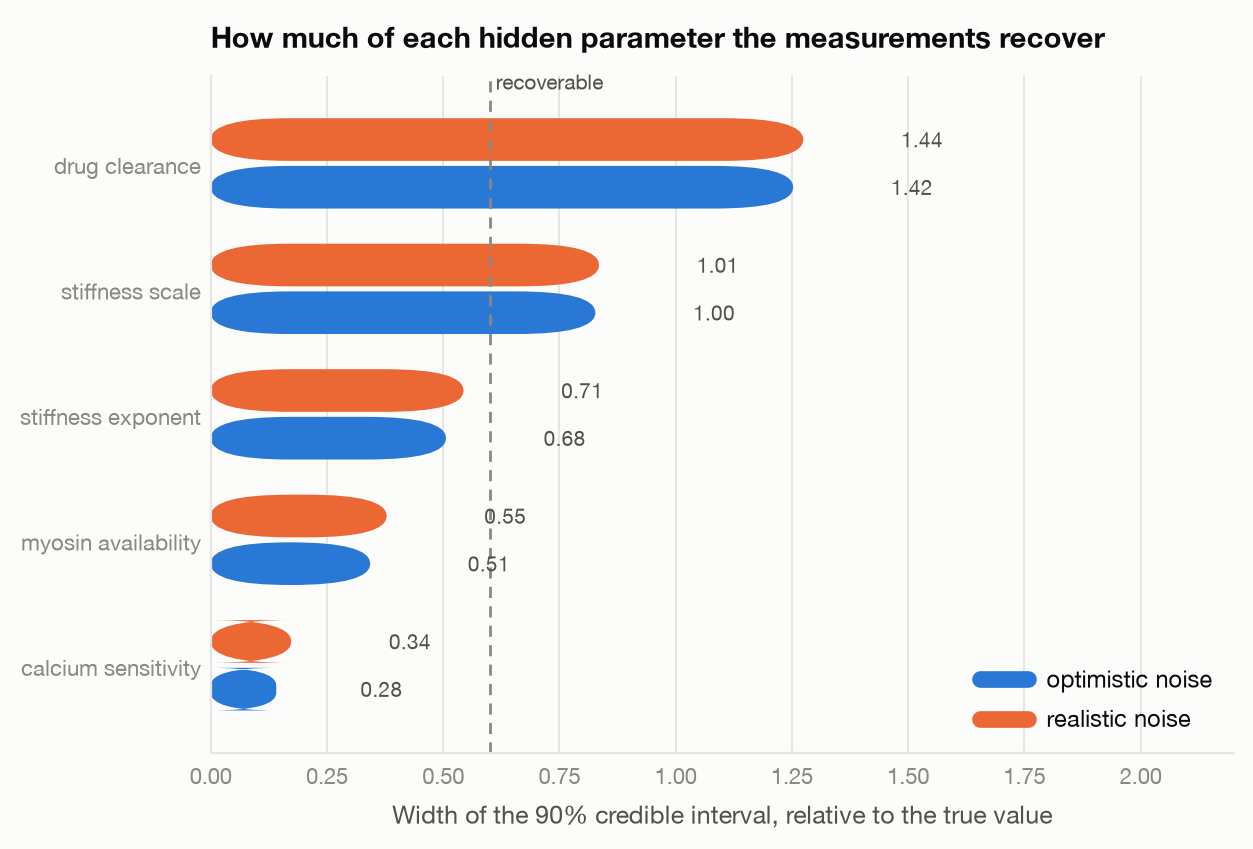
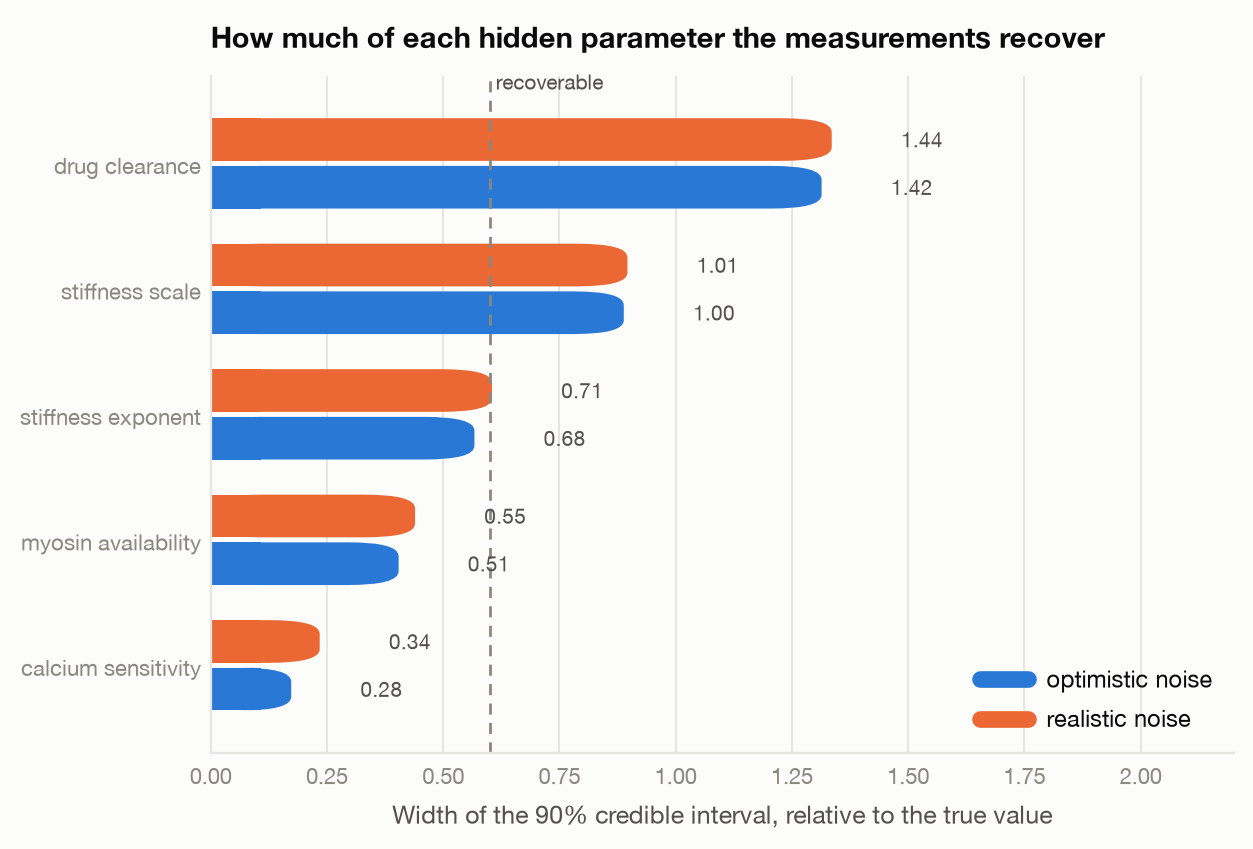
Square the bar baselines so bars read as magnitudes, not intervals
Rounding both ends of a thin bar turns it into a pill, which floats and reads as
an interval rather than a quantity growing from an axis. The bars are now square
where they meet the baseline and rounded at the data end, with a corner radius
below half the bar height so the two arcs cannot meet and recreate the pill.

diff --git a/src/hcmtwin/viz/style.py b/src/hcmtwin/viz/style.py
@@ -143,17 +143,24 @@ def titled(ax: Any, title: str, subtitle: str | None = None) -> None:
 
 
 def rounded_barh(ax: Any, y: float, width: float, height: float, color: str, **kwargs: Any):  # type: ignore[no-untyped-def]
-    """A horizontal bar with a rounded data-end, anchored square to the baseline.
+    """A horizontal bar rounded at the value end and square at the baseline.
 
-    Rounded at the value end and square at the axis end, so the bar reads as growing from
-    the baseline rather than floating.
+    Square where it meets the axis so the bar reads as growing *from* the baseline, rounded
+    at the far end so the data end is soft. Rounding both ends turns a bar into a pill,
+    which floats and reads as an interval rather than a magnitude.
+
+    The corner radius is a fraction of the bar height rather than half of it, for the same
+    reason: at half the height the two arcs meet and the shape is a pill again.
     """
-    from matplotlib.patches import FancyBboxPatch
+    from matplotlib.patches import FancyBboxPatch, Rectangle
 
-    radius = min(height / 2.0, abs(width) / 2.0) if width != 0 else 0.0
-    patch = FancyBboxPatch(
+    magnitude = abs(width)
+    if magnitude <= 0.0:
+        return None
+    radius = min(0.32 * height, 0.45 * magnitude)
+    body = FancyBboxPatch(
         (0.0, y - height / 2.0),
-        max(abs(width) - radius, 1e-9),
+        max(magnitude - radius, 1e-12),
         height,
         boxstyle=f"round,pad=0,rounding_size={radius}",
         linewidth=0,
@@ -161,8 +168,18 @@ def rounded_barh(ax: Any, y: float, width: float, height: float, color: str, **k
         mutation_aspect=1.0,
         **kwargs,
     )
-    ax.add_patch(patch)
-    return patch
+    ax.add_patch(body)
+    # Square off the baseline end by covering the left arc.
+    ax.add_patch(
+        Rectangle(
+            (0.0, y - height / 2.0),
+            min(radius, magnitude),
+            height,
+            linewidth=0,
+            facecolor=color,
+        )
+    )
+    return body
 
 
 def annotate_illustrative(ax: Any) -> None:
